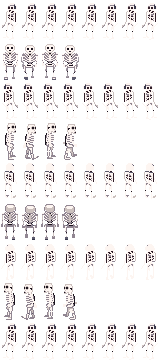
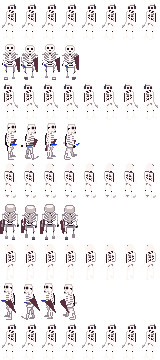
Animated with weapon for 4 directions.  Disabled non-animated for now.

diff --git a/js/enemy/enemy.js b/js/enemy/enemy.js
@@ -324,7 +324,7 @@ function enemyClass() {
 						this.moveNorth = true;
 						this.moveWest = true;					
 						this.movementTimer = 300;
-						break;
+					//	break;
 					case 3:
 						this.resetDirections();
 						this.moveWest = true;
@@ -335,7 +335,7 @@ function enemyClass() {
 						this.moveWest = true;
 						this.moveSouth = true;
 						this.movementTimer = 300;
-						break;
+					//	break;
 					case 5:
 						this.resetDirections();
 						this.moveSouth = true;
@@ -346,7 +346,7 @@ function enemyClass() {
 						this.moveSouth = true;
 						this.moveEast = true;
 						this.movementTimer = 300;
-						break;
+					//	break;
 					case 7:
 						this.resetDirections();
 						this.moveEast = true;
@@ -357,7 +357,7 @@ function enemyClass() {
 						this.moveNorth = true;
 						this.moveEast = true;					
 						this.movementTimer = 300;
-						break;
+					//	break;
 					case 9:
 					case 10:
 						this.resetDirections();
